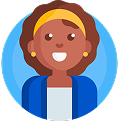
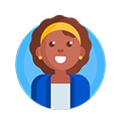
feat: add updatePlayer method in playerServices and update avatar3 image

diff --git a/client/src/services/playerServices.ts b/client/src/services/playerServices.ts
@@ -6,6 +6,11 @@ export const getPlayers = async (): Promise<Player[]> => {
     return raw.map((props) => new Player(props));
 };
 
+export const updatePlayer = async (id: number, playerData: Partial<PlayerProps>): Promise<Player> => {
+    const raw: PlayerProps = await api.put(`players/${id}`, playerData).then((res) => res.data);
+    return new Player(raw);
+};
+
 export const getPlayerById = async (id: number): Promise<Player> => {
     const raw: PlayerProps = await api.get(`players/${id}`).then((res) => res.data);
     return new Player(raw);
